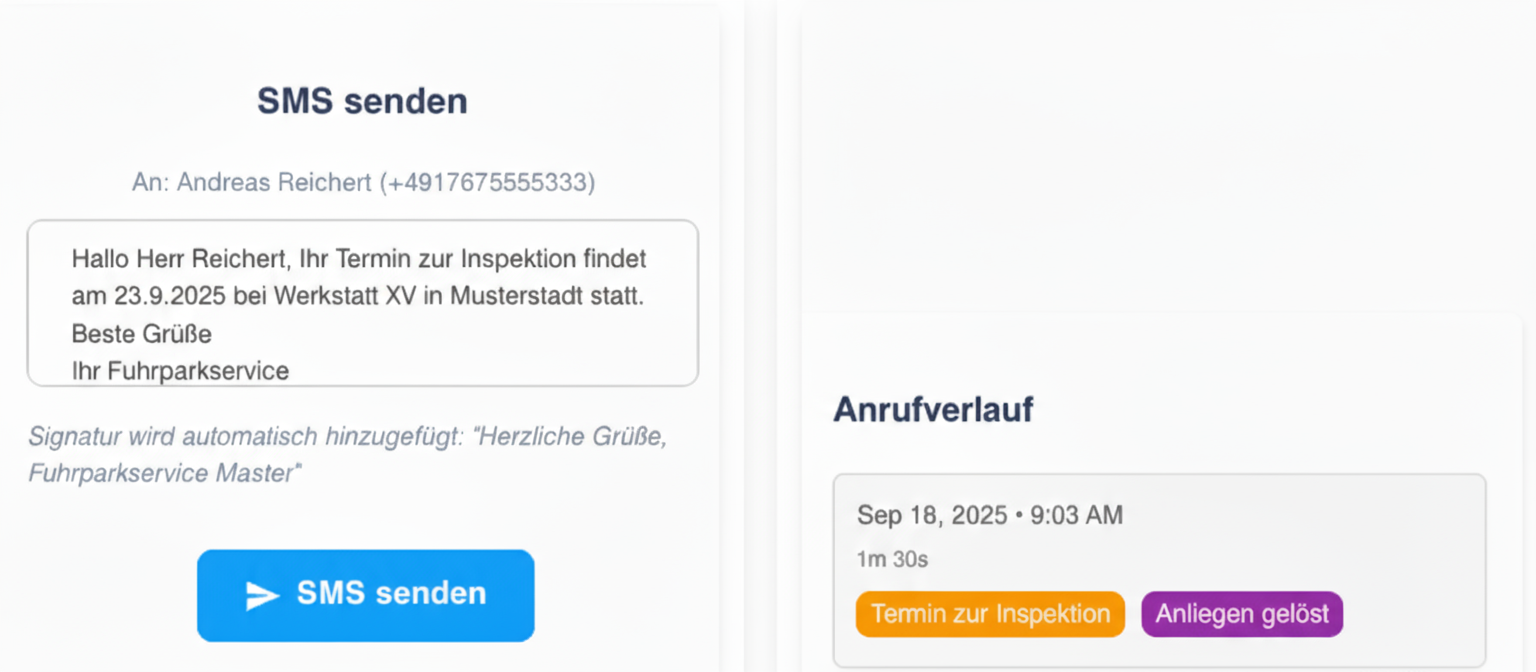
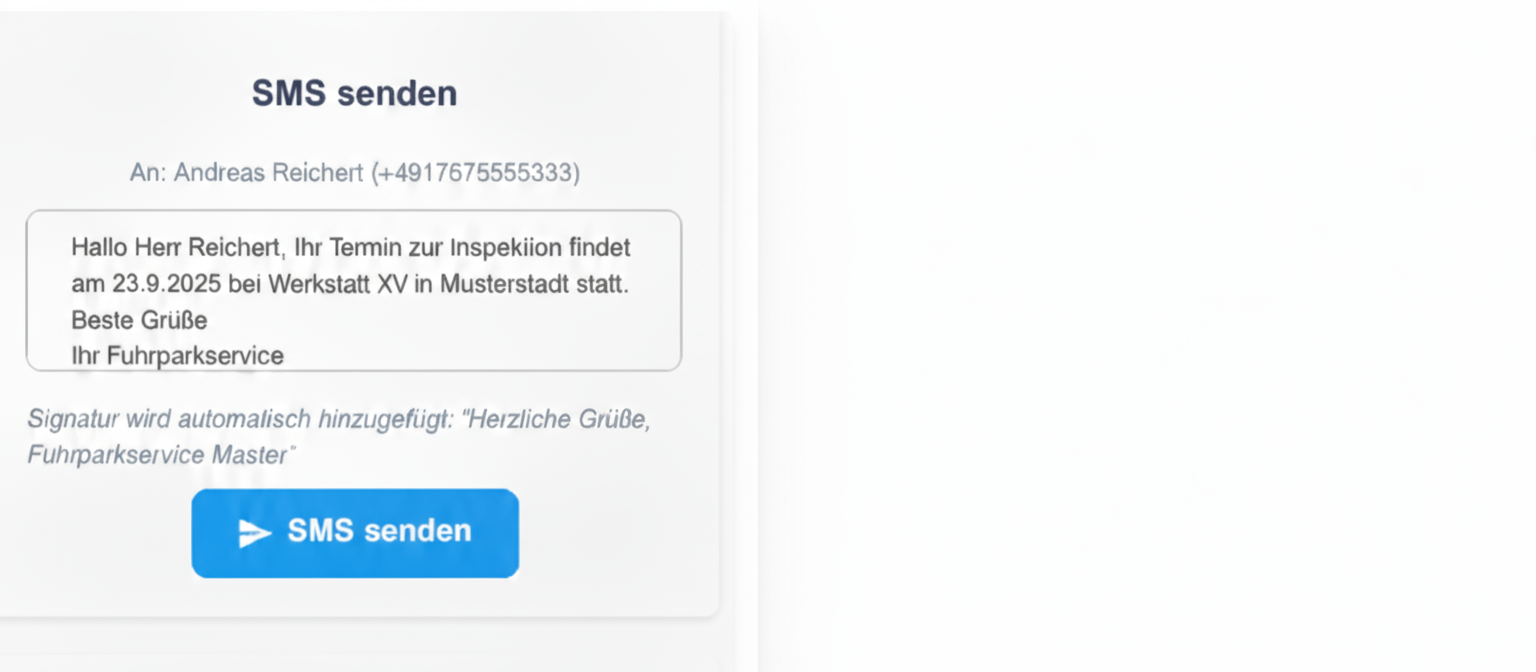
Crop images to content

diff --git a/src/pages/ConversationalAI/Fuhrpark.tsx b/src/pages/ConversationalAI/Fuhrpark.tsx
@@ -9,8 +9,8 @@ import Footer from "@/components/Footer";
 import smartInboxImage from "@/assets/fuhrpark-smart-inbox-correct.png";
 import verschlagwortungImage from "@/assets/fuhrpark-verschlagwortung-hq.png";
 import followUpImage from "@/assets/fuhrpark-follow-up.png";
-import smsInterfaceImage from "@/assets/fuhrpark-sms-tight.png";
-import callHistoryImage from "@/assets/fuhrpark-anrufverlauf-tight.png";
+import smsInterfaceImage from "@/assets/fuhrpark-sms-final.png";
+import callHistoryImage from "@/assets/fuhrpark-anrufverlauf-final.png";
 
 const Fuhrpark = () => {
   const [isPlaying, setIsPlaying] = useState(false);
